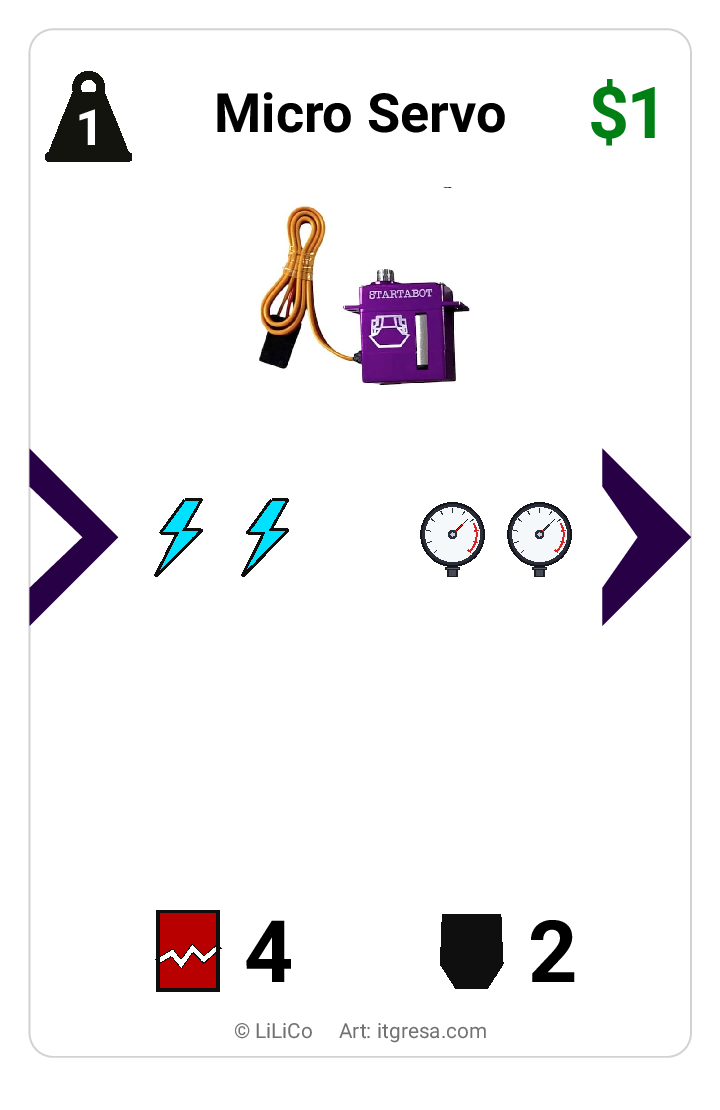
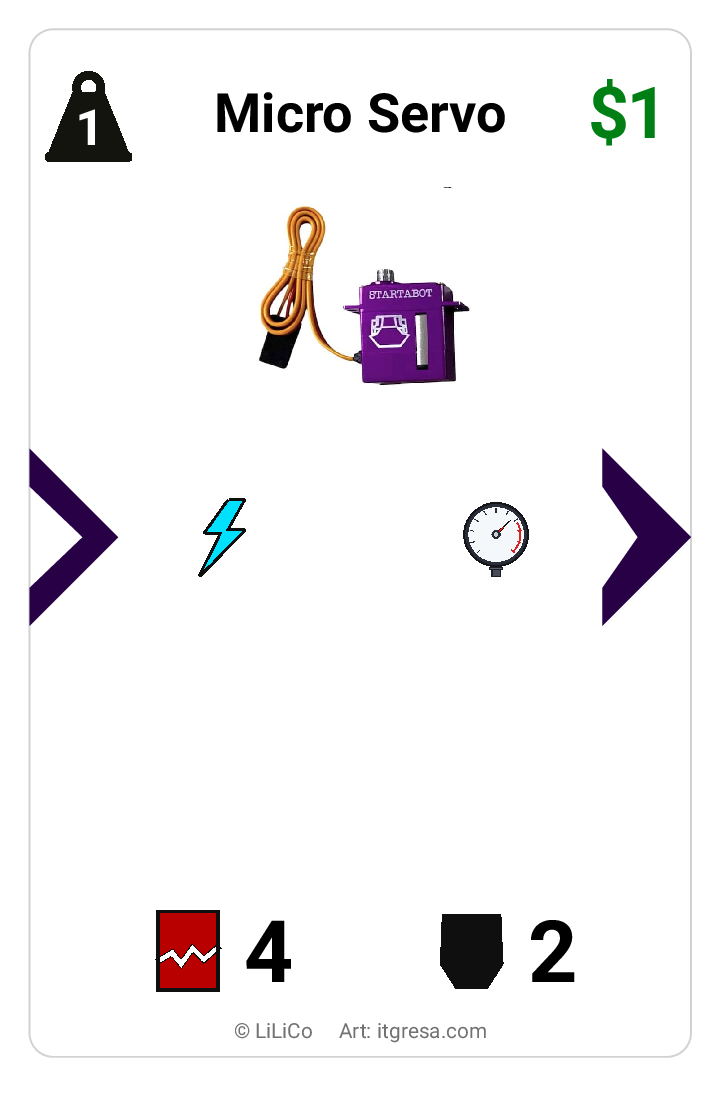
fixed larger number display

Changed region(s): [[0.5806, 0.4288, 0.7944, 0.5207], [0.2139, 0.4288, 0.3972, 0.5207]]

diff --git a/cardCreation/generateCards.py b/cardCreation/generateCards.py
@@ -246,7 +246,7 @@ def parse_token_info(tok: str) -> dict | None:
     return {"prefix": prefix, "char": char, "count": 1, "is_repeat": False, "mult_expr": prefix, "fixed_count": 0}
 
 
-def format_single_resource_item(tok_info: dict, resource_math: bool = False, icon_size: str = "") -> str:
+def format_single_resource_item(tok_info: dict, resource_math: bool = False, icon_size: str = "", hspace: str = "") -> str:
     """Formats a parsed single resource item token into TikZ/LaTeX markup."""
     char = tok_info["char"]
     prefix = tok_info["prefix"]
@@ -274,16 +274,18 @@ def format_single_resource_item(tok_info: dict, resource_math: bool = False, ico
         if tok_info["is_repeat"]:
             count = tok_info["count"]
             sz = icon_size if icon_size else ("[0.52cm]" if count >= 5 else "")
+            hs = hspace if hspace else "1.5pt"
             icons = [f"\\resource{char}{sz}" for _ in range(count)]
             if count <= 2:
-                return r"\hspace{1.5pt}".join(icons)
+                return rf"\hspace{{{hs}}}".join(icons)
             else:
                 top_count = (count + 1) // 2
-                row1 = r"\hspace{1.5pt}".join(icons[:top_count])
-                row2 = r"\hspace{1.5pt}".join(icons[top_count:])
+                row1 = rf"\hspace{{{hs}}}".join(icons[:top_count])
+                row2 = rf"\hspace{{{hs}}}".join(icons[top_count:])
                 return rf"\parbox{{2.5cm}}{{\centering {row1}\par\vspace{{1.5pt}}{row2}}}"
         else:
             mult_expr = tok_info.get("mult_expr", prefix)
+            hs = hspace if hspace else "1.5pt"
             fixed_count = tok_info.get("fixed_count", 0)
             if mult_expr.upper() == "XX":
                 mult_expr = "XxX"
@@ -296,7 +298,7 @@ def format_single_resource_item(tok_info: dict, resource_math: bool = False, ico
                 return mult_element
             else:
                 fixed_icons = [rf"\resource{char}" for _ in range(fixed_count)]
-                row1 = r"\hspace{1.5pt}".join(fixed_icons)
+                row1 = rf"\hspace{{{hs}}}".join(fixed_icons)
                 row2 = mult_element
                 return rf"\parbox{{2.5cm}}{{\centering {row1}\par\vspace{{1.5pt}}{row2}}}"
 
@@ -333,11 +335,20 @@ def parse_resources(res_str: str, resource_math: bool = False) -> str:
     tokens = tokenize_resources(res_str)
     if not tokens:
         return ""
+    # Icon representation: scale down to [0.52cm] if 5 or more icons total
+    icon_size = ""
+    hspace = "1.5pt"
 
     if len(tokens) == 1:
-        info = parse_token_info(tokens[0])
+        info = parse_token_info(tokens[0])    
+        if info["count"] >= 5:
+            icon_size = "[0.52cm]"
+        if info["count"] >= 7:
+            icon_size = "[0.35cm]"
+            hspace = "1.0pt"
+
         if info:
-            return format_single_resource_item(info, resource_math=resource_math)
+            return format_single_resource_item(info, resource_math=resource_math, icon_size=icon_size, hspace=hspace)
         return rf"{{\sffamily\bfseries {escape_latex(tokens[0])}}}"
 
     # Multiple tokens (mixed resources, e.g. ["SSS", "PP"])
@@ -350,6 +361,12 @@ def parse_resources(res_str: str, resource_math: bool = False) -> str:
             parsed_infos.append({"raw": t})
 
     total_icons = sum(info.get("count", 1) for info in parsed_infos)
+    if total_icons >= 5:
+        icon_size = "[0.52cm]"
+
+    if total_icons >= 7:
+        icon_size = "[0.35cm]"
+        hspace = "1.0pt"
 
     if resource_math:
         elements = []
@@ -364,8 +381,6 @@ def parse_resources(res_str: str, resource_math: bool = False) -> str:
         else:
             return r"\hspace{2pt}".join(elements)
     else:
-        # Icon representation: scale down to [0.52cm] if 5 or more icons total
-        icon_size = "[0.52cm]" if total_icons >= 5 else ""
 
         # If total_icons <= 2, render side-by-side on 1 row
         if total_icons <= 2:
@@ -375,8 +390,8 @@ def parse_resources(res_str: str, resource_math: bool = False) -> str:
                 if info.get("is_repeat"):
                     icons.extend([f"\\resource{ch}{icon_size}" for _ in range(info["count"])])
                 else:
-                    icons.append(format_single_resource_item(info, resource_math=False, icon_size=icon_size))
-            return r"\hspace{1.5pt}".join(icons)
+                    icons.append(format_single_resource_item(info, resource_math=False, icon_size=icon_size, hspace=hspace))
+            return rf"\hspace{{{hspace}}}".join(icons)
 
         # If 2 distinct resource groups (like SSS and PP):
         if len(parsed_infos) == 2:
@@ -385,9 +400,9 @@ def parse_resources(res_str: str, resource_math: bool = False) -> str:
                 ch = info["char"]
                 if info.get("is_repeat"):
                     c_icons = [f"\\resource{ch}{icon_size}" for _ in range(info["count"])]
-                    row_items.append(r"\hspace{1.5pt}".join(c_icons))
+                    row_items.append(rf"\hspace{{{hspace}}}".join(c_icons))
                 else:
-                    row_items.append(format_single_resource_item(info, resource_math=False, icon_size=icon_size))
+                    row_items.append(format_single_resource_item(info, resource_math=False, icon_size=icon_size, hspace=hspace))
             return rf"\parbox{{2.5cm}}{{\centering {row_items[0]}\par\vspace{{1.5pt}}{row_items[1]}}}"
 
         # General fallback for > 2 resource groups
@@ -398,7 +413,7 @@ def parse_resources(res_str: str, resource_math: bool = False) -> str:
                 c_icons = [f"\\resource{ch}{icon_size}" for _ in range(info["count"])]
                 row_items.append(r"\hspace{1.5pt}".join(c_icons))
             else:
-                row_items.append(format_single_resource_item(info, resource_math=False, icon_size=icon_size))
+                row_items.append(format_single_resource_item(info, resource_math=False, icon_size=icon_size, hspace=hspace))
         top = row_items[0]
         bot = r"\hspace{2pt}".join(row_items[1:])
         return rf"\parbox{{2.5cm}}{{\centering {top}\par\vspace{{1.5pt}}{bot}}}"
